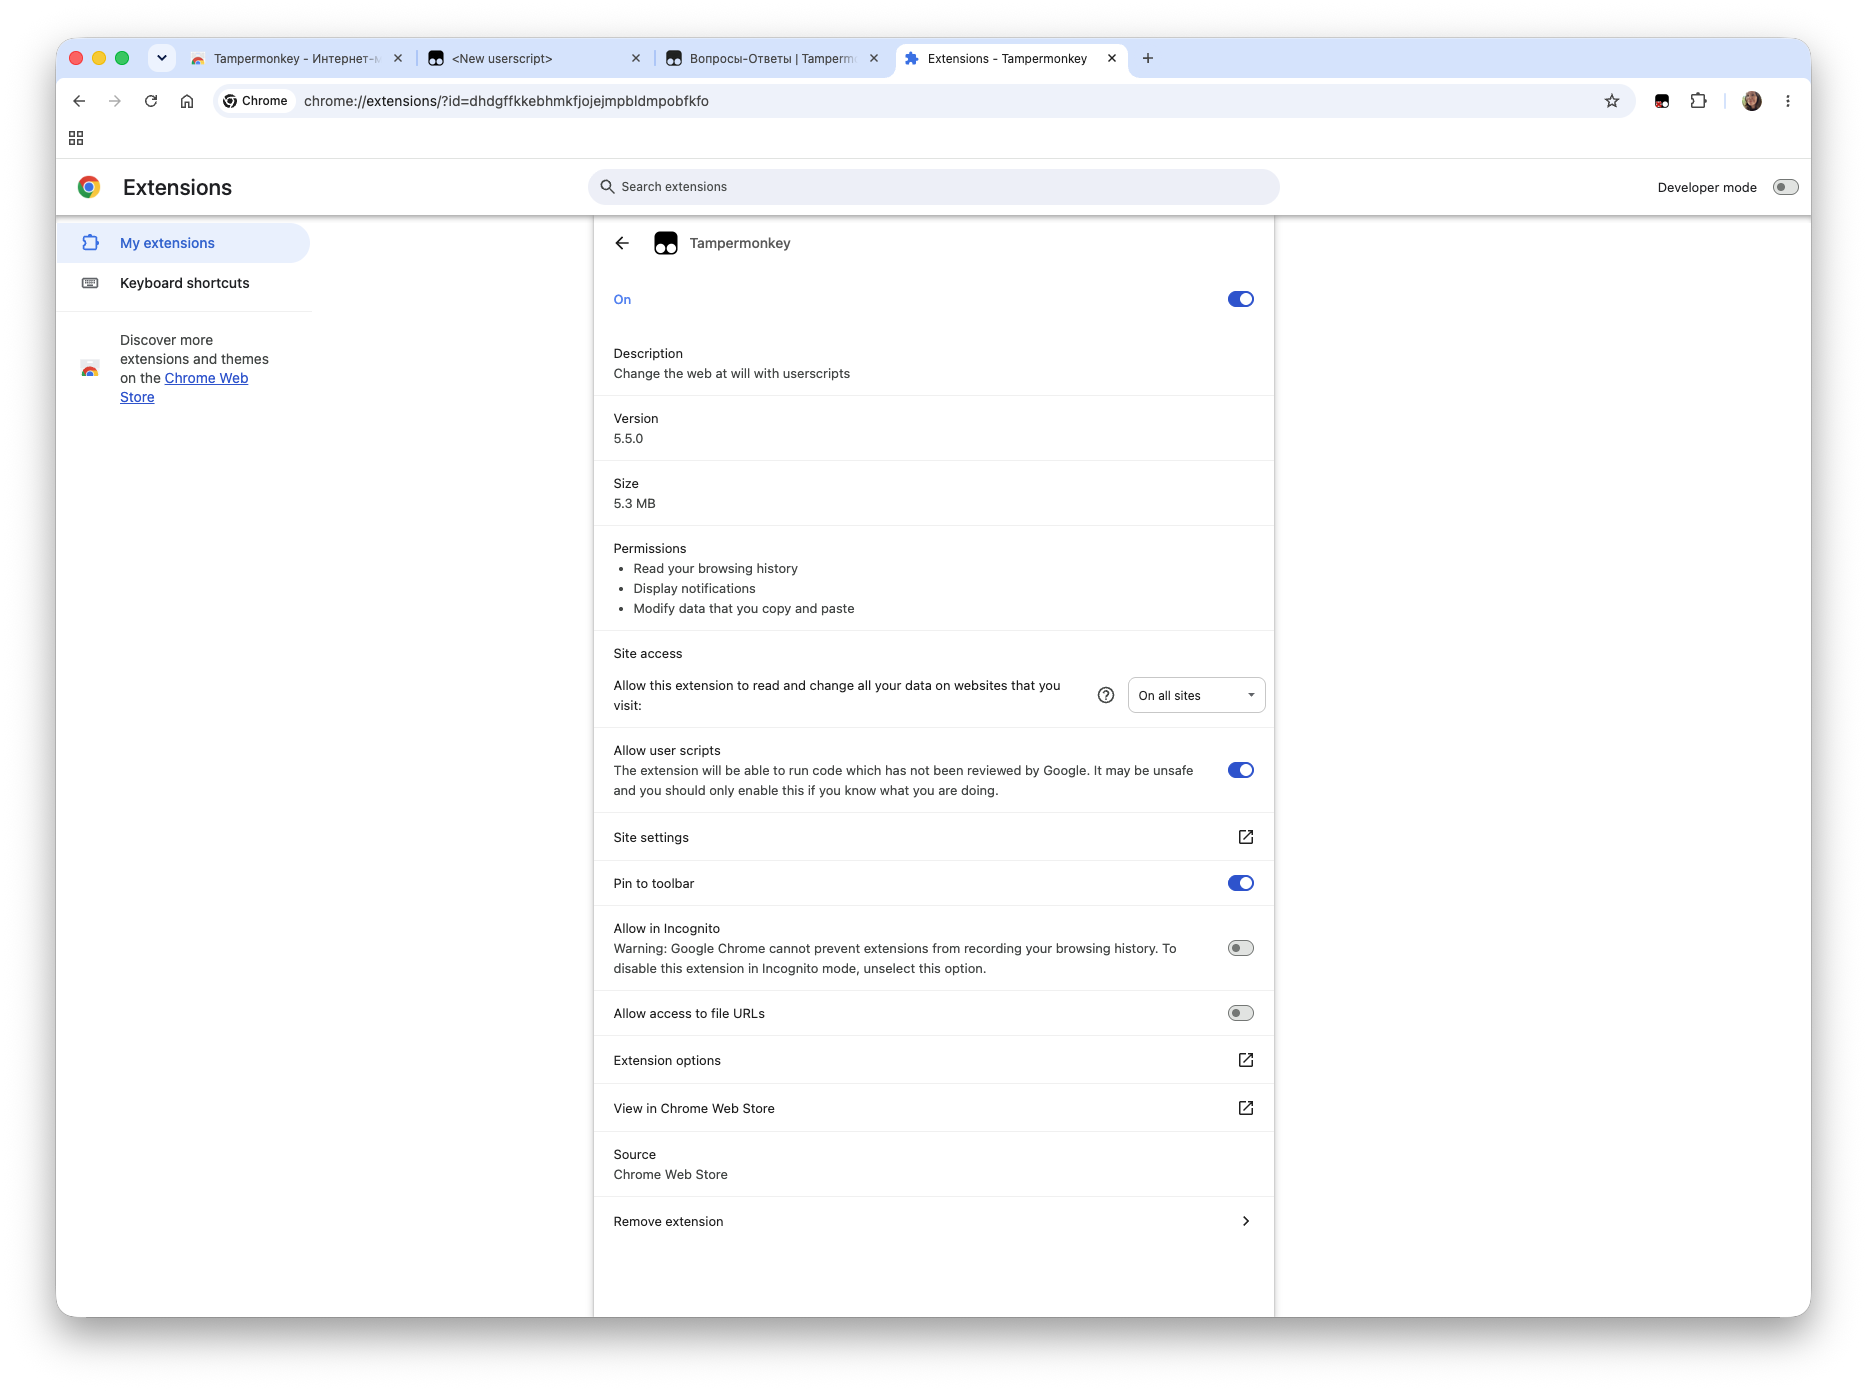
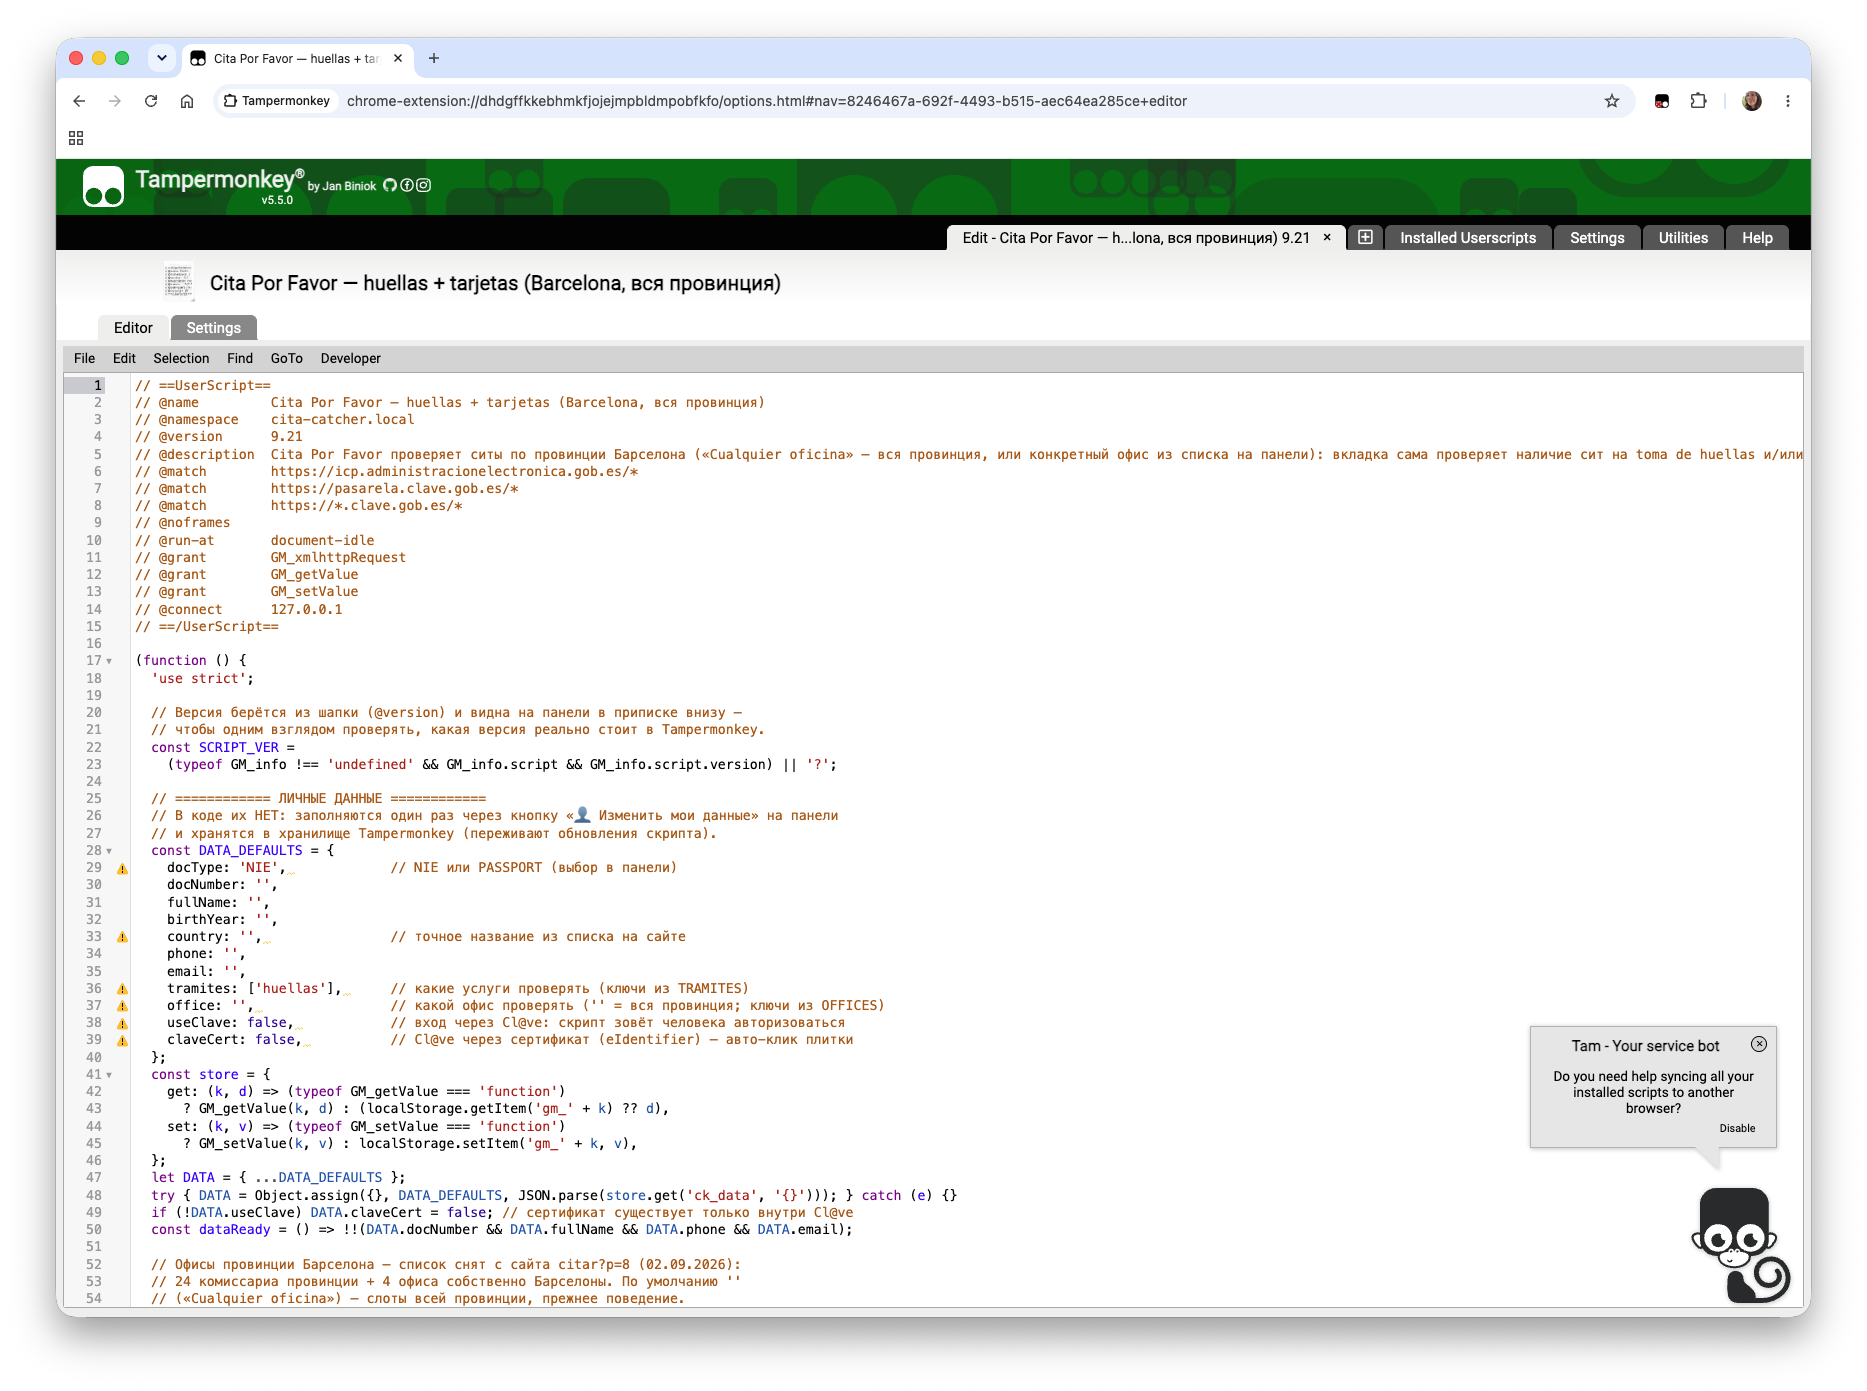
SETUP: имена setup-07 исправлены

diff --git a/SETUP.md b/SETUP.md
@@ -40,8 +40,6 @@ Chrome не даст расширению запускать userscript'ы.
 
 ![Переключатель «Разрешить пользовательские скрипты» на странице расширения](img/setup-06-allow-scripts.png)
 
-![Редактор Tampermonkey](img/setup-07-editor.png)
-
 После включения предупреждение исчезает. Меню Tampermonkey выглядит так —
 пункт **«Создать новый скрипт…» (Create a new script…)** на месте, значит
 всё готово и можно идти дальше.
@@ -73,7 +71,7 @@ Chrome не даст расширению запускать userscript'ы.
 3. Вставьте скопированный на предыдущем шаге код и сохраните
    (Cmd+S / Ctrl+S).
 
-![Редактор Tampermonkey со вставленным скриптом](img/setup-08-editor-paste.png)
+![Редактор Tampermonkey со вставленным скриптом](img/setup-07-editor.png)
 
 После сохранения скрипт появляется в списке Tampermonkey включённым —
 вкладка без звёздочки, переключатель активен.
